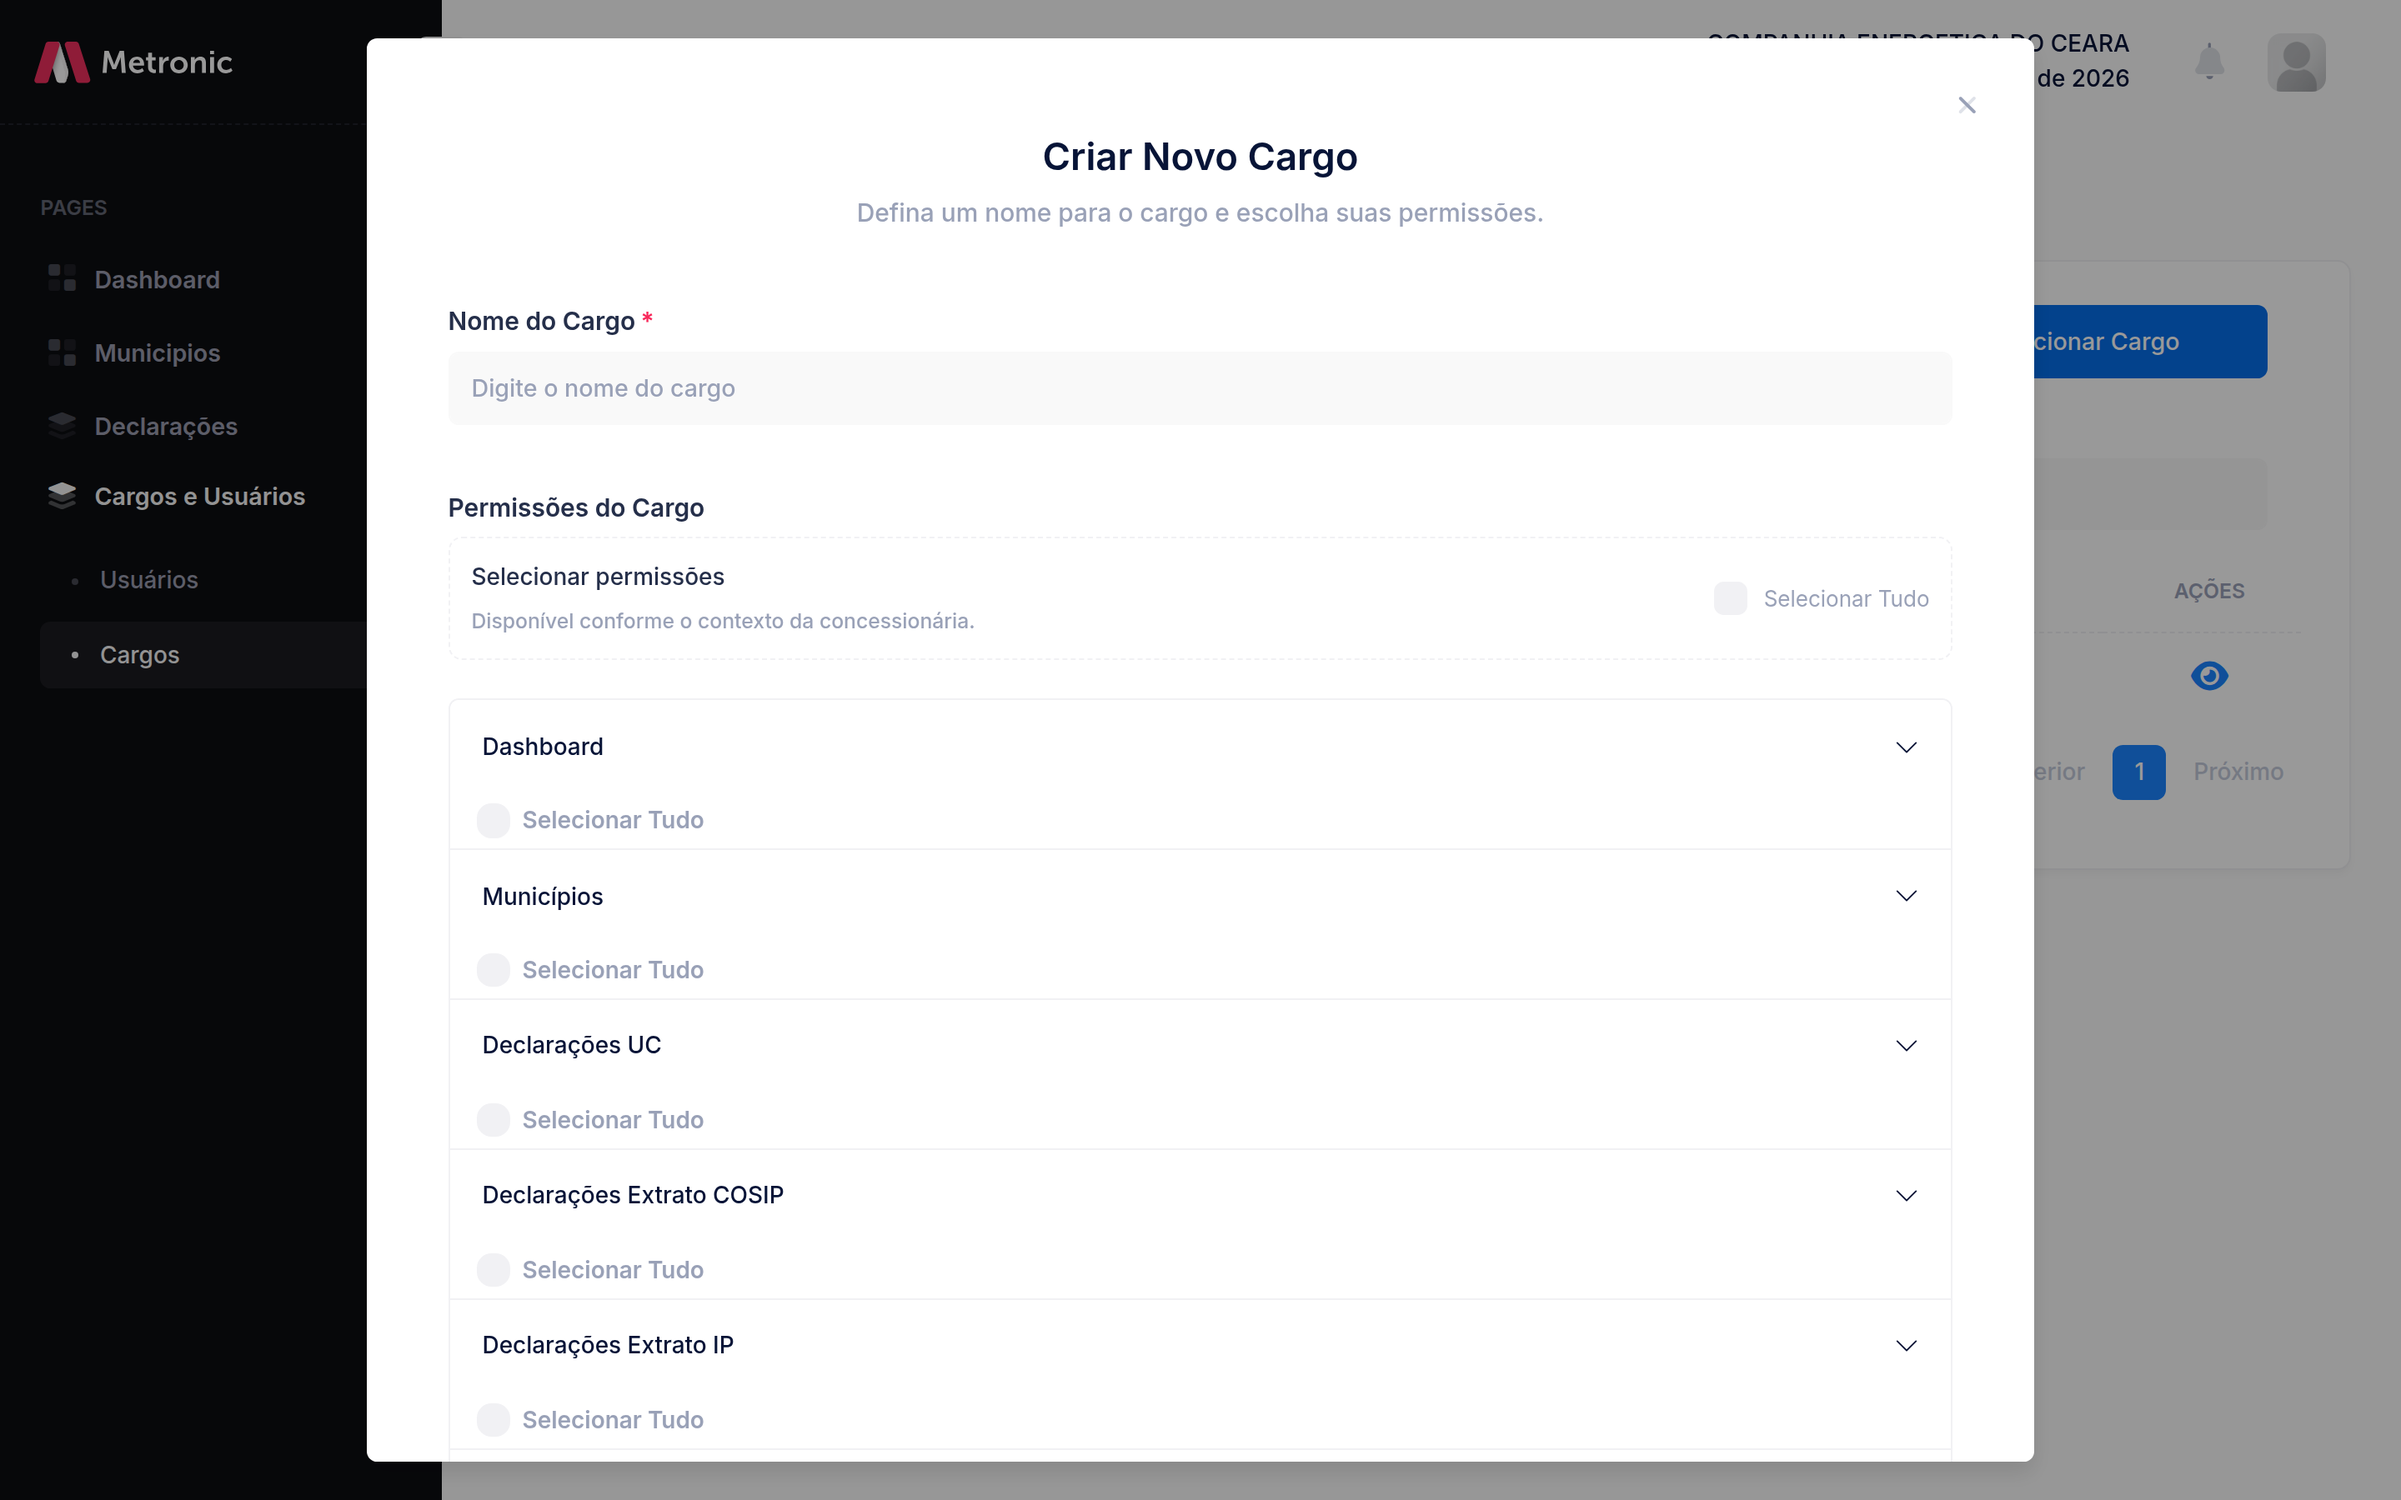
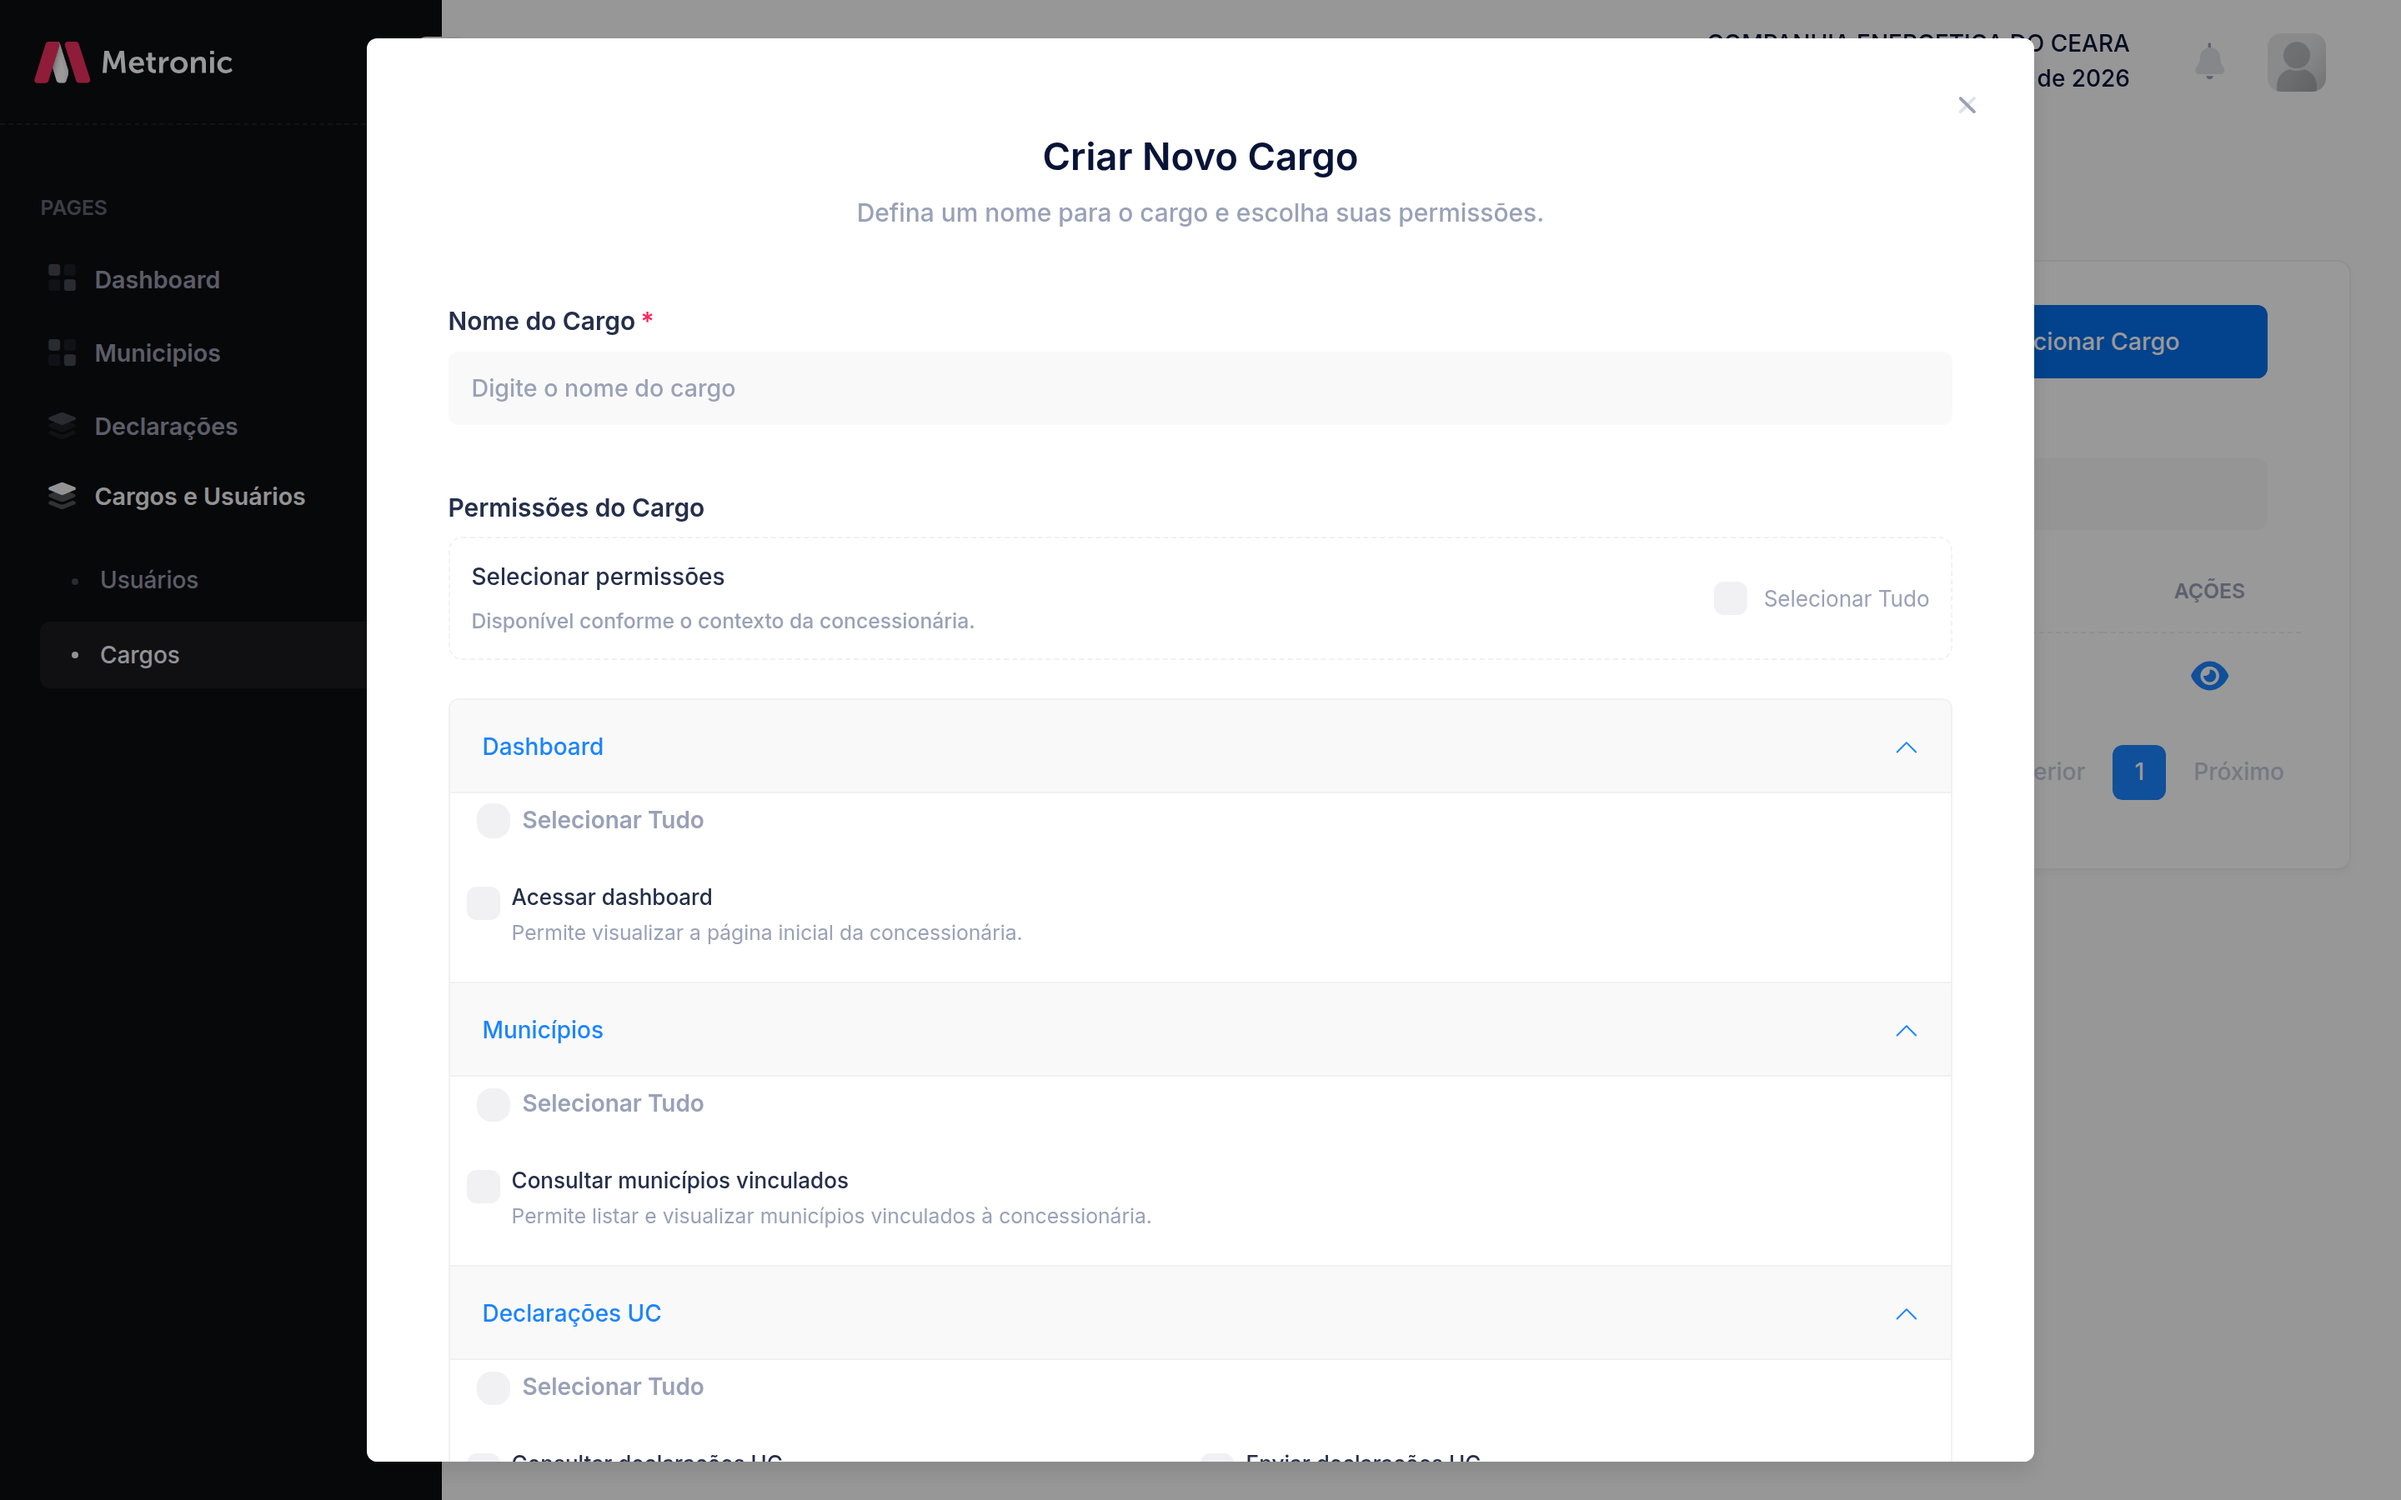
docs: expande as permissões na figura de novo cargo
A captura do cadastro passa a mostrar as capacidades de cada módulo,
não apenas o selecionar tudo.

diff --git a/guia-painel-concessionaria.html b/guia-painel-concessionaria.html
@@ -501,7 +501,7 @@
     <p>O cadastro exige nome e ao menos uma permissão. O nome não pode coincidir com outro cargo do mesmo contexto, inclusive o padrão. As permissões vêm agrupadas por módulo; cada grupo admite seleção total ou item a item. Há também seleção geral de todas as permissões.</p>
     <figure class="figura">
       <img src="imagens/painel-concessionaria/11-cargo-novo.png" alt="Formulário Criar Novo Cargo, com nome e grupos de permissões">
-      <figcaption><strong>Figura 11.</strong> Cadastro de cargo próprio: nome obrigatório e permissões por módulo do painel.</figcaption>
+      <figcaption><strong>Figura 11.</strong> Cadastro de cargo próprio: nome obrigatório e permissões por módulo, com as capacidades individuais de cada grupo.</figcaption>
     </figure>
     <table>
       <tr><th>Grupo</th><th>Capacidades</th></tr>
